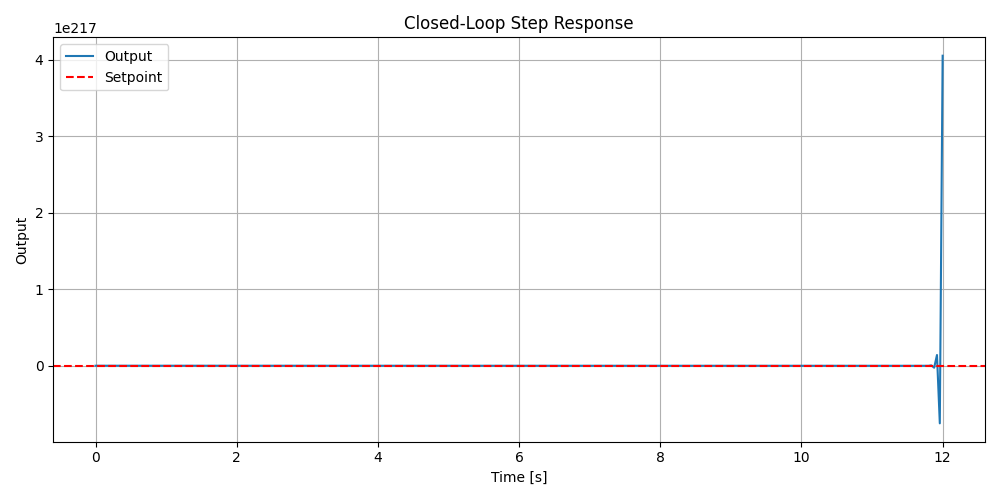
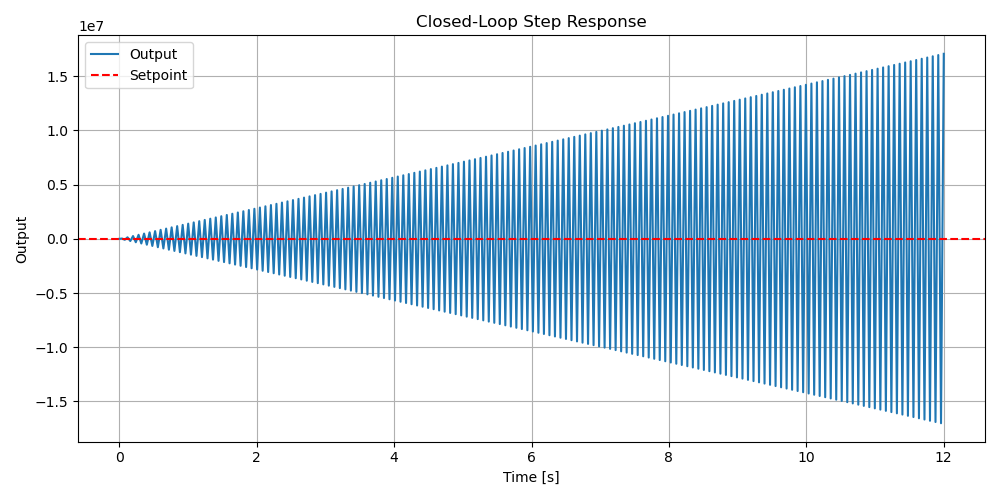
Trying to fix bug

diff --git a/controller.py b/controller.py
@@ -1,6 +1,6 @@
 import matplotlib.pyplot as plt
 import numpy as np
-import scipy.signal as sgnl
+import scipy.signal as sg
 
 class MyComplex(complex):
     def __new__(cls, real=0.0, imag=0.0):
@@ -157,15 +157,26 @@ class TransferFunction:
 
 
 class Controller:
-    def __init__(self, Gs: TransferFunction, Hs: TransferFunction, Kc=1.0):
+    def __init__(self, Gs: TransferFunction, Hs: TransferFunction, Kc=1.0, dT=0.1):
         self.Gs = Gs
         self.Hs = Hs
         self.Kc = Kc
+        self.Ts = dT
         self._update_loop()
+        
+    def bilinear(self, tf: TransferFunction) -> TransferFunction:
+        """
+        Return a new TransferFunction which is the bilinear (Tustin)
+        discretization of this continuous‐time TF, with sample time Ts.
+        """
+        
+        tf_dict = tf.to_dict()
+        b_z, a_z = sg.bilinear(tf_dict['den'], tf_dict['num'], fs=1.0/self.Ts)
+        return TransferFunction(b_z.tolist(), a_z.tolist())
 
     def _update_loop(self):
         closed_loop = (self.Kc * self.Gs) / (1 + self.Kc * self.Gs * self.Hs)
-        self._loop_tf = closed_loop
+        self._loop_tf = self.bilinear(closed_loop)
 
     def reset(self):
         self._loop_tf.reset()
@@ -192,34 +203,26 @@ class Controller:
 
 TF = TransferFunction
 if __name__ == "__main__":
-    G = TF([0.3], [1.0, 1.2, 0.36])
+    G = TF([0.3], [1.0, 0.2, 0.36])   
+    wn = 1
+    H = TF([0.4], [1])
     
-    print('G(s) = ')
-    print(G)
-    print()
-    print(G.poles, end='\n\n')
-    
-    wn = 2
-    H = (TF([1, 2*wn, wn**2]) - G.den)/G.num
-    print('H(s) = ')
-    print(H, end='\n\n')
+    time, dT = np.linspace(0, 12, 300, retstep=True)
 
-    controller = Controller(G, H, Kc=2.0)
-    tf = controller.tf.to_dict()
-    #system = sgnl.TransferFunction(tf['num'], tf['den'])
-    print(controller.tf)
-    
-    # t, y = sgnl.step(system)
+    controller = Controller(G, H, Kc=0.3, dT=dT)
+    Ts = controller.tf
+    print('Ts =')
+    print(Ts, end='\n\n')
 
     controller.print_poles_zeros("poles_zeros.txt")
-
+    
     setpoint = 1.0
     y = 0.0
-
     t_values = [0]
     y_values = [y]
+    time = np.delete(time, 0)
 
-    for t in np.linspace(0.04, 12, 299):
+    for t in time:
         y = controller(setpoint)
         t_values.append(t)
         y_values.append(y)
@@ -227,7 +230,6 @@ if __name__ == "__main__":
     print(f'Error from setpoint to end result: {setpoint-y}')
     plt.figure(figsize=(10, 5))
     plt.plot(t_values, y_values, label="Output")
-    # plt.plot(t, y, label="Step Response")
     plt.axhline(setpoint, color='r', linestyle='--', label="Setpoint")
     plt.title("Closed-Loop Step Response")
     plt.xlabel("Time [s]")
